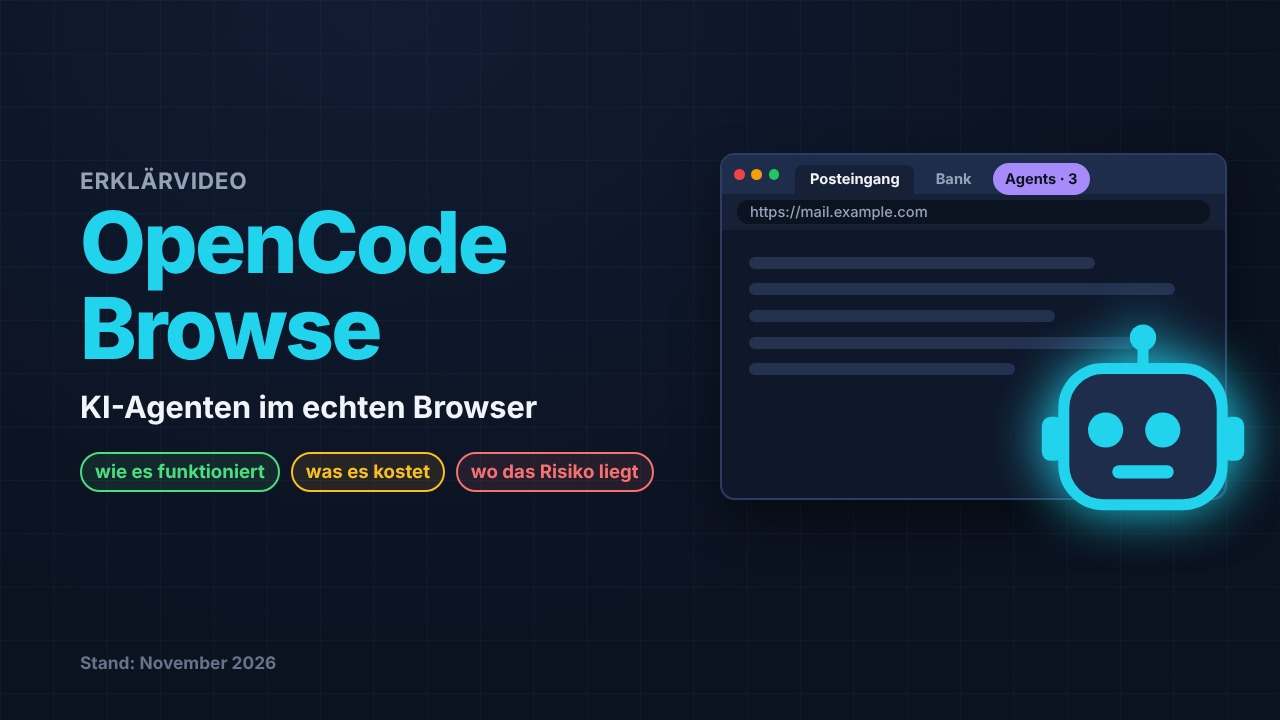
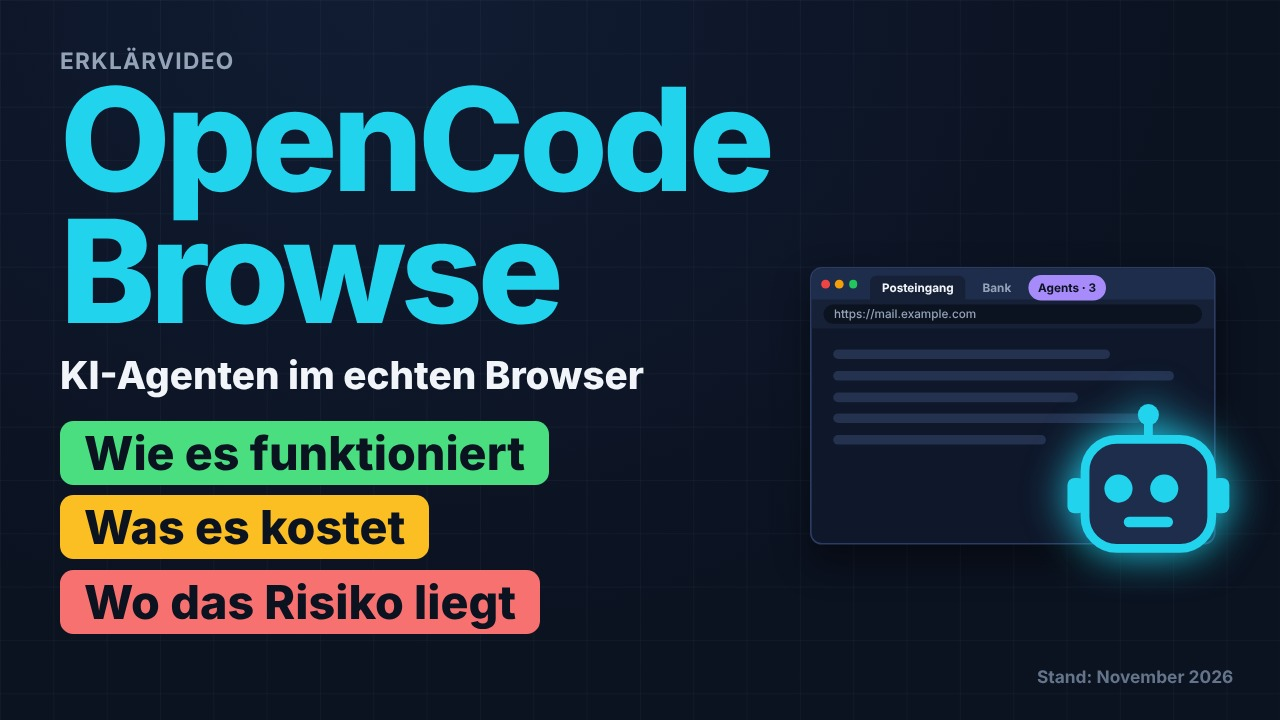
Erklärvideo OpenCode Browse: Thumbnail C und Titelkarte im großen Layout (Thema riesig, drei Punkte untereinander)
Claude-Session: https://claude.ai/code/session_01LHRCLpvnPp4GTmKTZVPGfL

diff --git a/video/opencode-browse/src/Titel.jsx b/video/opencode-browse/src/Titel.jsx
@@ -26,27 +26,37 @@ const Motiv = ({x, y, g = 1}) => (
   </div>
 );
 
+// Großes Layout: Thema riesig, darunter drei farbige Punkte untereinander (Wunsch des Nutzers, 09.11.)
+const PUNKTE = [['Wie es funktioniert', F.GRUEN], ['Was es kostet', F.GELB], ['Wo das Risiko liegt', F.ROT]];
+const GrossLayout = ({a = () => 1, kopf = false}) => (
+  <>
+    <div style={{position: 'absolute', left: 90, top: kopf ? 70 : 80, width: 1150}}>
+      {kopf && <div style={{fontSize: 34, fontWeight: 700, color: F.GRAU, letterSpacing: 2, opacity: a(0.1)}}>ERKLÄRVIDEO</div>}
+      <div style={{fontSize: 215, fontWeight: 800, color: F.CYAN, letterSpacing: -8, lineHeight: 0.92, opacity: a(0.2)}}>OpenCode<br />Browse</div>
+      <div style={{fontSize: 58, fontWeight: 800, color: F.TEXT, marginTop: 22, opacity: a(0.5)}}>KI-Agenten im echten Browser</div>
+      <div style={{display: 'flex', flexDirection: 'column', alignItems: 'flex-start', gap: 16, marginTop: 34}}>
+        {PUNKTE.map(([txt, farbe], i) => (
+          <div key={txt} style={{background: farbe, color: F.BG1, fontSize: 70, fontWeight: 800, padding: '6px 36px', borderRadius: 20,
+            opacity: a(0.9 + i * 0.35), transform: `translateX(${(1 - a(0.9 + i * 0.35)) * -40}px)`}}>{txt}</div>
+        ))}
+      </div>
+    </div>
+    <div style={{opacity: a(0.4)}}><Motiv x={1215} y={kopf ? 400 : 380} g={0.8} /></div>
+    {kopf && <div style={{position: 'absolute', right: 70, bottom: 50, fontSize: 26, fontWeight: 600, color: F.DUNKEL, opacity: a(1.2)}}>Stand: November 2026</div>}
+  </>
+);
+
 // Titelkarte: Intro im Video und Vorschaubild der Webseite
 export const Titelkarte = ({animiert = true}) => {
   useSchriften();
   const t = useT();
-  const a = (at) => (animiert ? ein(t, at, 0.5) : 1);
-  return (
-    <Hintergrund>
-      <div style={{position: 'absolute', left: 120, top: 250, width: 1000}}>
-        <div style={{fontSize: 34, fontWeight: 700, color: F.GRAU, opacity: a(0.1), letterSpacing: 1}}>ERKLÄRVIDEO</div>
-        <div style={{fontSize: 128, fontWeight: 800, color: F.CYAN, letterSpacing: -4, lineHeight: 1.0, marginTop: 10, opacity: a(0.2)}}>OpenCode<br />Browse</div>
-        <div style={{fontSize: 46, fontWeight: 700, color: F.TEXT, marginTop: 26, opacity: a(0.6)}}>KI-Agenten im echten Browser</div>
-        <div style={{display: 'flex', gap: 16, marginTop: 40, flexWrap: 'wrap', opacity: a(1.0)}}>
-          <Chip farbe={F.GRUEN} gross={28}>wie es funktioniert</Chip>
-          <Chip farbe={F.GELB} gross={28}>was es kostet</Chip>
-          <Chip farbe={F.ROT} gross={28}>wo das Risiko liegt</Chip>
-        </div>
-      </div>
-      <div style={{opacity: a(0.4)}}><Motiv x={1080} y={230} g={1} /></div>
-      <div style={{position: 'absolute', left: 120, bottom: 70, fontSize: 26, fontWeight: 600, color: F.DUNKEL, opacity: a(1.2)}}>Stand: November 2026</div>
-    </Hintergrund>
-  );
+  return <Hintergrund><GrossLayout kopf a={(at) => (animiert ? ein(t, at, 0.5) : 1)} /></Hintergrund>;
+};
+
+// Thumbnail C: wie Titelkarte, ohne Kopf- und Fußzeile
+export const ThumbnailC = () => {
+  useSchriften();
+  return <Hintergrund><GrossLayout /></Hintergrund>;
 };
 
 // Intro im Video: Titelkarte mit Blende

diff --git a/video/opencode-browse/src/Root.jsx b/video/opencode-browse/src/Root.jsx
@@ -1,11 +1,12 @@
 import React from 'react';
 import {Composition, Still} from 'remotion';
 import {Video, gesamtFrames} from './Video';
-import {Titelkarte, ThumbnailA, ThumbnailB} from './Titel';
+import {Titelkarte, ThumbnailA, ThumbnailB, ThumbnailC} from './Titel';
 
 export const RemotionRoot = () => (<>
   <Composition id="Erklaervideo" component={Video} durationInFrames={gesamtFrames} fps={30} width={1920} height={1080} />
   <Still id="Titelbild" component={Titelkarte} defaultProps={{animiert: false}} width={1920} height={1080} />
   <Still id="ThumbnailA" component={ThumbnailA} width={1920} height={1080} />
   <Still id="ThumbnailB" component={ThumbnailB} width={1920} height={1080} />
+  <Still id="ThumbnailC" component={ThumbnailC} width={1920} height={1080} />
 </>);
